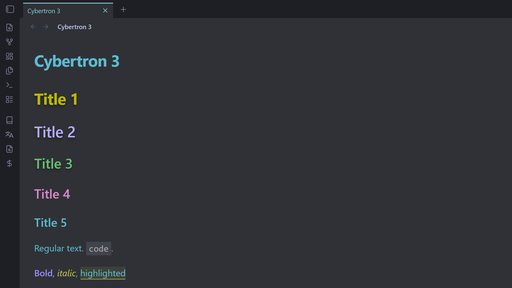
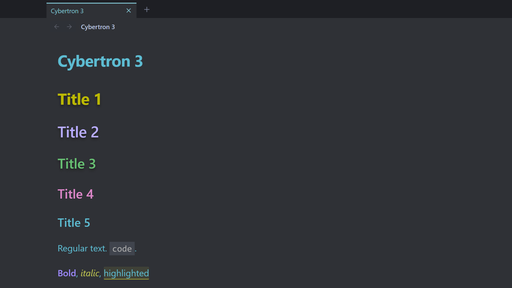
Cybertron 3 1.0.1: fix review warnings
- Use the plain MIT license text so GitHub recognizes it
- Remove a duplicate padding declaration in .view-header-title
- Fix the Dataview table selector (missing dot)
- Reframe the screenshot so the directory card doesn't crop it

Claude-Session: https://claude.ai/code/session_01NSEWgQfLAZPnBryqAvQA5j

diff --git a/theme.css b/theme.css
@@ -906,7 +906,6 @@ body.theme-dark {
     flex: 1 1 0;
     max-width: max-content;
     overflow: auto;
-    padding: 0 var(--size-4-1);
     white-space: pre;
     word-wrap: normal;
     color: #9FA9C6;
@@ -3913,7 +3912,7 @@ body.hider-frameless .workspace-split.mod-left-split >
 
 /* Theme Mode Specific */
 .theme-dark .markdown-source-view.mod-cm6 
-dataview.table-view-table .table-view-tbody tr {
+.dataview.table-view-table .table-view-tbody tr {
     background: var(--color-blacker);
 }
 
